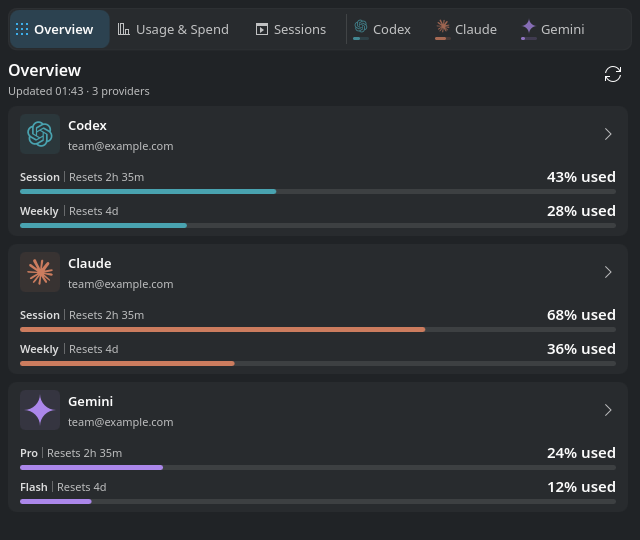
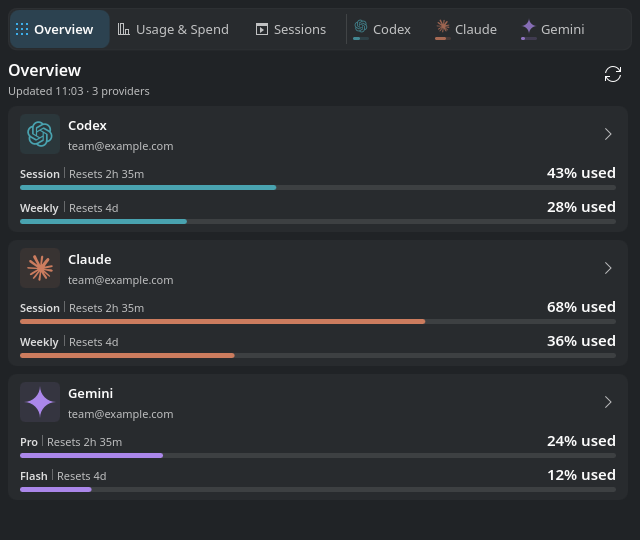
fix(popup): align quota text and tighten overview spacing (#698)
* fix(popup): align quota text and tighten overview spacing

Align quota names, inline resets and percentages on their text baseline. Use the native small gap between provider identity and its first quota.

Documentation: update usage guidance, Unreleased, popup captures and tour. TODO is unaffected because this presentation polish completes no tracked parity item.

* fix(popup): bound quota rows with mixed font metrics

Reserve maximum ascent and descent around the shared quota baseline so custom font metrics stay inside the header. Cover large captions, resets and percentages through the production Overview row.

Documentation: existing baseline guidance and Unreleased already describe this behavior. The standard-font Overview cards remain pixel-identical, so maintained captures and TODO need no update.

diff --git a/contents/ui/components/OverviewProviderRow.qml b/contents/ui/components/OverviewProviderRow.qml
@@ -178,15 +178,19 @@ Rectangle {
                     || overviewMeterReset.truncated
 
                 Layout.fillWidth: true
-                Layout.topMargin: index === 0 ? Kirigami.Units.largeSpacing : Kirigami.Units.smallSpacing / 2
+                Layout.topMargin: index === 0 ? Kirigami.Units.smallSpacing : Kirigami.Units.smallSpacing / 2
                 spacing: Kirigami.Units.smallSpacing / 2
 
                 Item {
                     id: overviewMeterHeader
 
                     Layout.fillWidth: true
-                    implicitHeight: Math.max(overviewMeterCaption.implicitHeight,
-                        overviewMeterReset.implicitHeight, overviewMeterPercent.implicitHeight)
+                    baselineOffset: Math.max(overviewMeterCaption.baselineOffset,
+                        overviewMeterReset.baselineOffset, overviewMeterPercent.baselineOffset)
+                    implicitHeight: baselineOffset + Math.max(
+                        overviewMeterCaption.implicitHeight - overviewMeterCaption.baselineOffset,
+                        overviewMeterReset.implicitHeight - overviewMeterReset.baselineOffset,
+                        overviewMeterPercent.implicitHeight - overviewMeterPercent.baselineOffset)
                     implicitWidth: overviewMeterCaption.implicitWidth
                         + overviewMeterReset.implicitWidth + overviewMeterPercent.implicitWidth
                         + Kirigami.Units.smallSpacing * 3 + 1
@@ -199,7 +203,7 @@ Rectangle {
                         font.weight: Font.DemiBold
                         opacity: overviewRow.applet.valueTextOpacity
                         anchors.left: parent.left
-                        anchors.verticalCenter: parent.verticalCenter
+                        anchors.baseline: parent.baseline
                         width: Math.min(implicitWidth, Math.max(0,
                             parent.width - overviewMeterPercent.width - Kirigami.Units.smallSpacing))
                         elide: Text.ElideRight
@@ -227,7 +231,7 @@ Rectangle {
                         opacity: overviewRow.applet.secondaryTextOpacity
                         anchors.left: overviewResetSeparator.right
                         anchors.leftMargin: Kirigami.Units.smallSpacing
-                        anchors.verticalCenter: parent.verticalCenter
+                        anchors.baseline: parent.baseline
                         width: Math.max(0, parent.width - overviewMeterCaption.width
                             - overviewMeterPercent.width - Kirigami.Units.smallSpacing * 3 - overviewResetSeparator.width)
                         elide: Text.ElideRight
@@ -237,7 +241,7 @@ Rectangle {
                         id: overviewMeterPercent
 
                         anchors.right: parent.right
-                        anchors.verticalCenter: parent.verticalCenter
+                        anchors.baseline: parent.baseline
                         text: overviewRow.applet.usagePercentText(overviewMeter.modelData)
                         font.pointSize: Kirigami.Theme.defaultFont.pointSize * 1.15
                         font.features: { "tnum": 1 }

diff --git a/tests/tst_popup_controls.qml b/tests/tst_popup_controls.qml
@@ -288,6 +288,46 @@ TestCase {
         }
     }
 
+    function test_overviewQuotaFontsStayInsideTheirHeader_data() {
+        return [
+            {tag: "large-caption", caption: 60, reset: 60, percent: 20},
+            {tag: "large-percent", caption: 20, reset: 20, percent: 60},
+            {tag: "large-reset", caption: 12, reset: 54, percent: 20}
+        ];
+    }
+
+    function test_overviewQuotaFontsStayInsideTheirHeader(data) {
+        failOnWarning(/Binding loop|recursive rearrange/);
+        var row = createControl("OverviewProviderRow", {
+            applet: applet, width: 540,
+            modelData: Object.assign({}, provider, {testRows: [
+                {label: "Session", hasPercent: true, leftPercent: 57, reset: "in 2h"}
+            ]})
+        });
+        if (!row) return;
+        waitForRendering(row);
+        var caption = findText(row, "Session");
+        var reset = findText(row, "Resets in 2h");
+        var percent = findText(row, "57% left");
+        caption.font = Qt.font({family: caption.font.family, pixelSize: data.caption});
+        reset.font = Qt.font({family: reset.font.family, pixelSize: data.reset});
+        percent.font = Qt.font({family: percent.font.family, pixelSize: data.percent});
+        wait(0);
+        verify(waitForPolish(row));
+        var header = caption.parent;
+        tryCompare(header, "height", header.implicitHeight);
+        for (var label of [caption, reset, percent]) {
+            verify(label.y >= -0.5, "Quota text extends above its header");
+            verify(label.y + label.height <= header.height + 0.5,
+                "Quota text extends below its header: " + JSON.stringify({
+                    y: label.y, height: label.height, implicitHeight: label.implicitHeight,
+                    baseline: label.baselineOffset, headerHeight: header.height,
+                    headerImplicitHeight: header.implicitHeight}));
+            fuzzyCompare(label.y + label.baselineOffset,
+                percent.y + percent.baselineOffset, 0.5);
+        }
+    }
+
     // The meters and resets are only visual; the row's accessible description
     // must follow the drawn order: detail line, then each named window.
     function test_overviewDescribesItsQuotaToAssistiveTools() {

diff --git a/contents/ui/components/ProviderUsageRow.qml b/contents/ui/components/ProviderUsageRow.qml
@@ -90,6 +90,7 @@ ColumnLayout {
 
             text: usageRow.rowData.label
             font.weight: Font.DemiBold
+            Layout.alignment: Qt.AlignBaseline
             Layout.fillWidth: true
             Layout.maximumWidth: usageRow.resetInline ? Math.ceil(implicitWidth) : Infinity
             elide: Text.ElideRight
@@ -119,6 +120,7 @@ ColumnLayout {
             text: usageRow.resetText
             font: Kirigami.Theme.smallFont
             opacity: usageRow.secondaryTextOpacity
+            Layout.alignment: Qt.AlignBaseline
             elide: Text.ElideRight
 
             HoverHandler { id: usageInlineResetHover }
@@ -169,6 +171,7 @@ ColumnLayout {
             font.pointSize: Kirigami.Theme.defaultFont.pointSize * 1.15
             font.features: { "tnum": 1 }
             font.weight: Font.DemiBold
+            Layout.alignment: Qt.AlignBaseline
             horizontalAlignment: Text.AlignRight
             elide: Text.ElideRight
         }

diff --git a/docs/usage.md b/docs/usage.md
@@ -230,12 +230,13 @@ work and upstream contract requirements.
   gauge is visible. Expanded rows keep their full native hover and
   focus outlines visible inside the scrollable popup.
 - Overview and provider quota percentages use the same slightly larger type
-  size and align with the end of their meters. Quota percentages, cost summaries,
+  size and align with the end of their meters. Quota names, inline resets and
+  percentages share a text baseline. Quota percentages, cost summaries,
   provider totals and chart readout values request tabular digits from the theme
   font, keeping equal-length numbers stable when supported by that font.
   A thin separator distinguishes an inline reset from its quota name.
-  Overview keeps more space between provider cards and between each identity
-  header and its first quota.
+  Overview keeps more space between provider cards, with a compact gap between
+  each identity header and its first quota.
   Without a pace forecast or summary, a reset appears beside its quota title
   when the full text, percentage and reserved hide action fit with a safety
   margin. Otherwise it stays below the meter. Small changes in the countdown

diff --git a/CHANGELOG.md b/CHANGELOG.md
@@ -23,6 +23,9 @@ For earlier versions, see [GitHub Releases](https://github.com/Lucenx9/codexbar-
 
 ### Changed
 
+- Align popup quota names, inline resets and percentages on a shared text
+  baseline, and tighten the gap above the first quota in Overview cards.
+
 - Refine panel provider groups with larger, contrast-adjusted icons, slimmer
   outlined quota tracks, clearer spacing, and regular tabular text. Vertical
   panels stack icons above readable quota tracks. Tiny readings no longer
